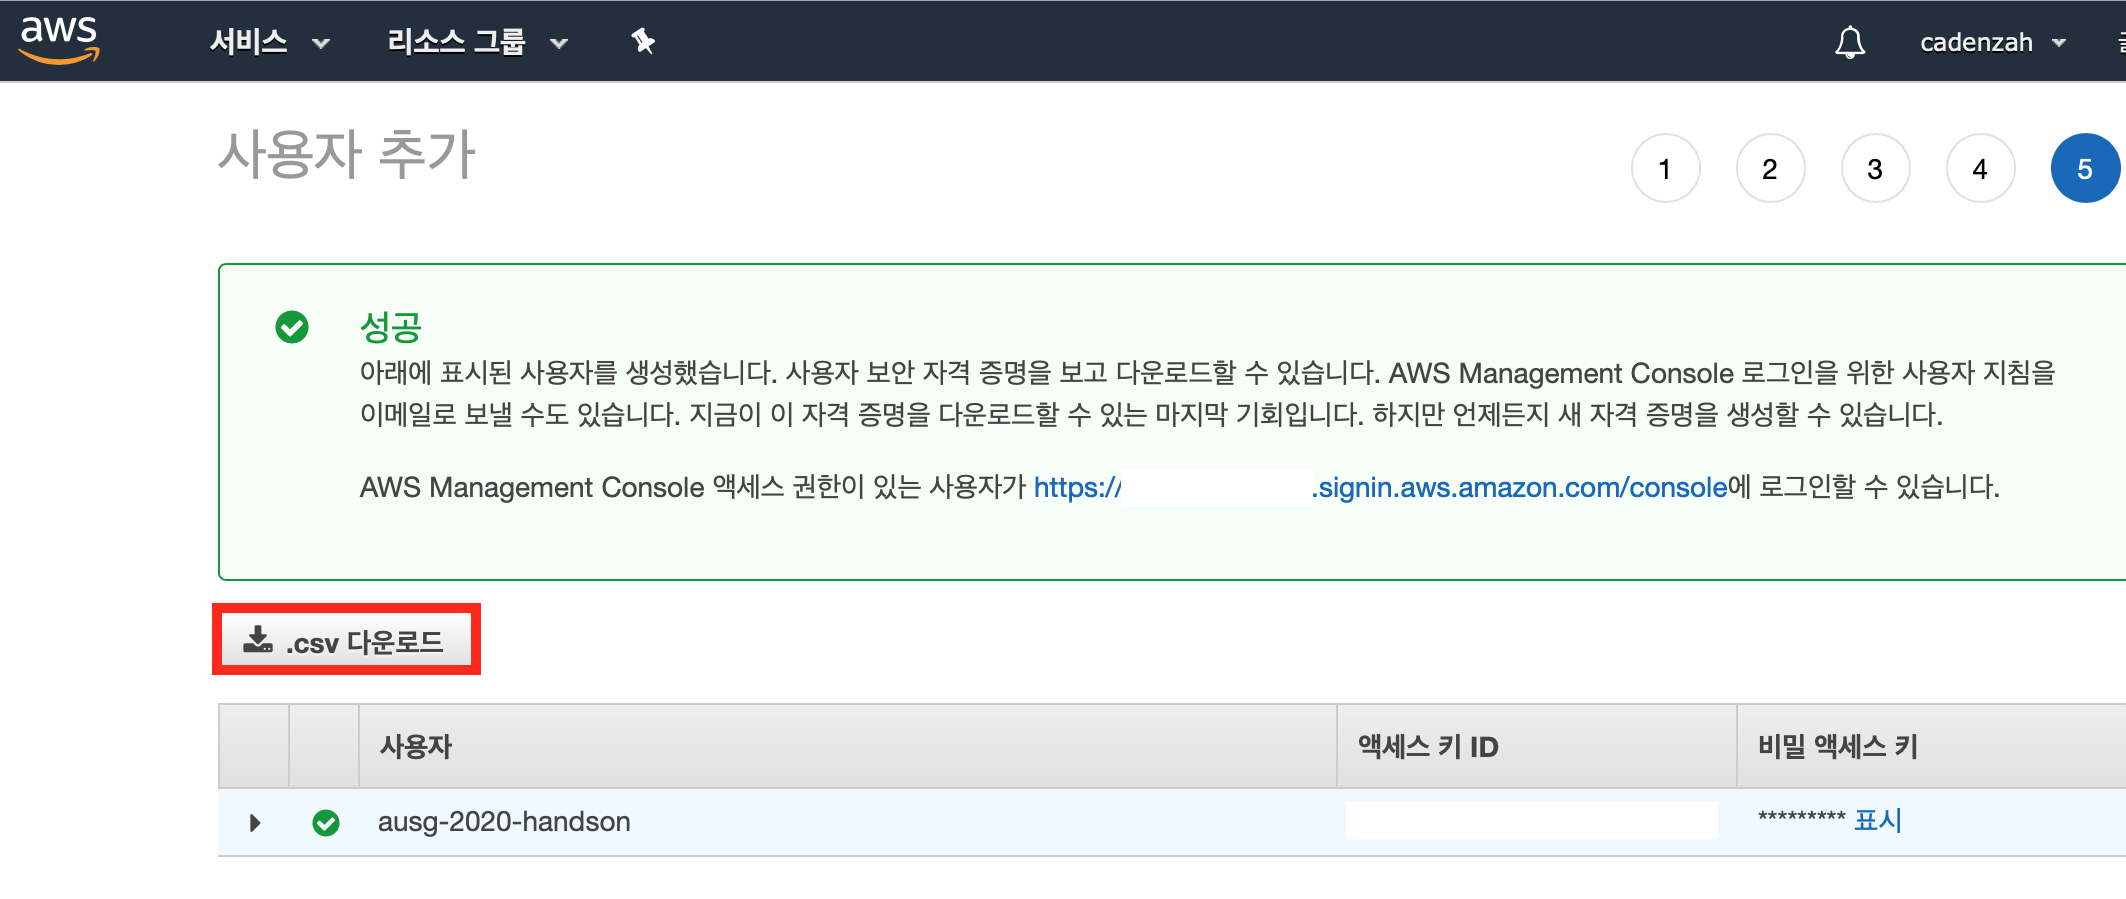
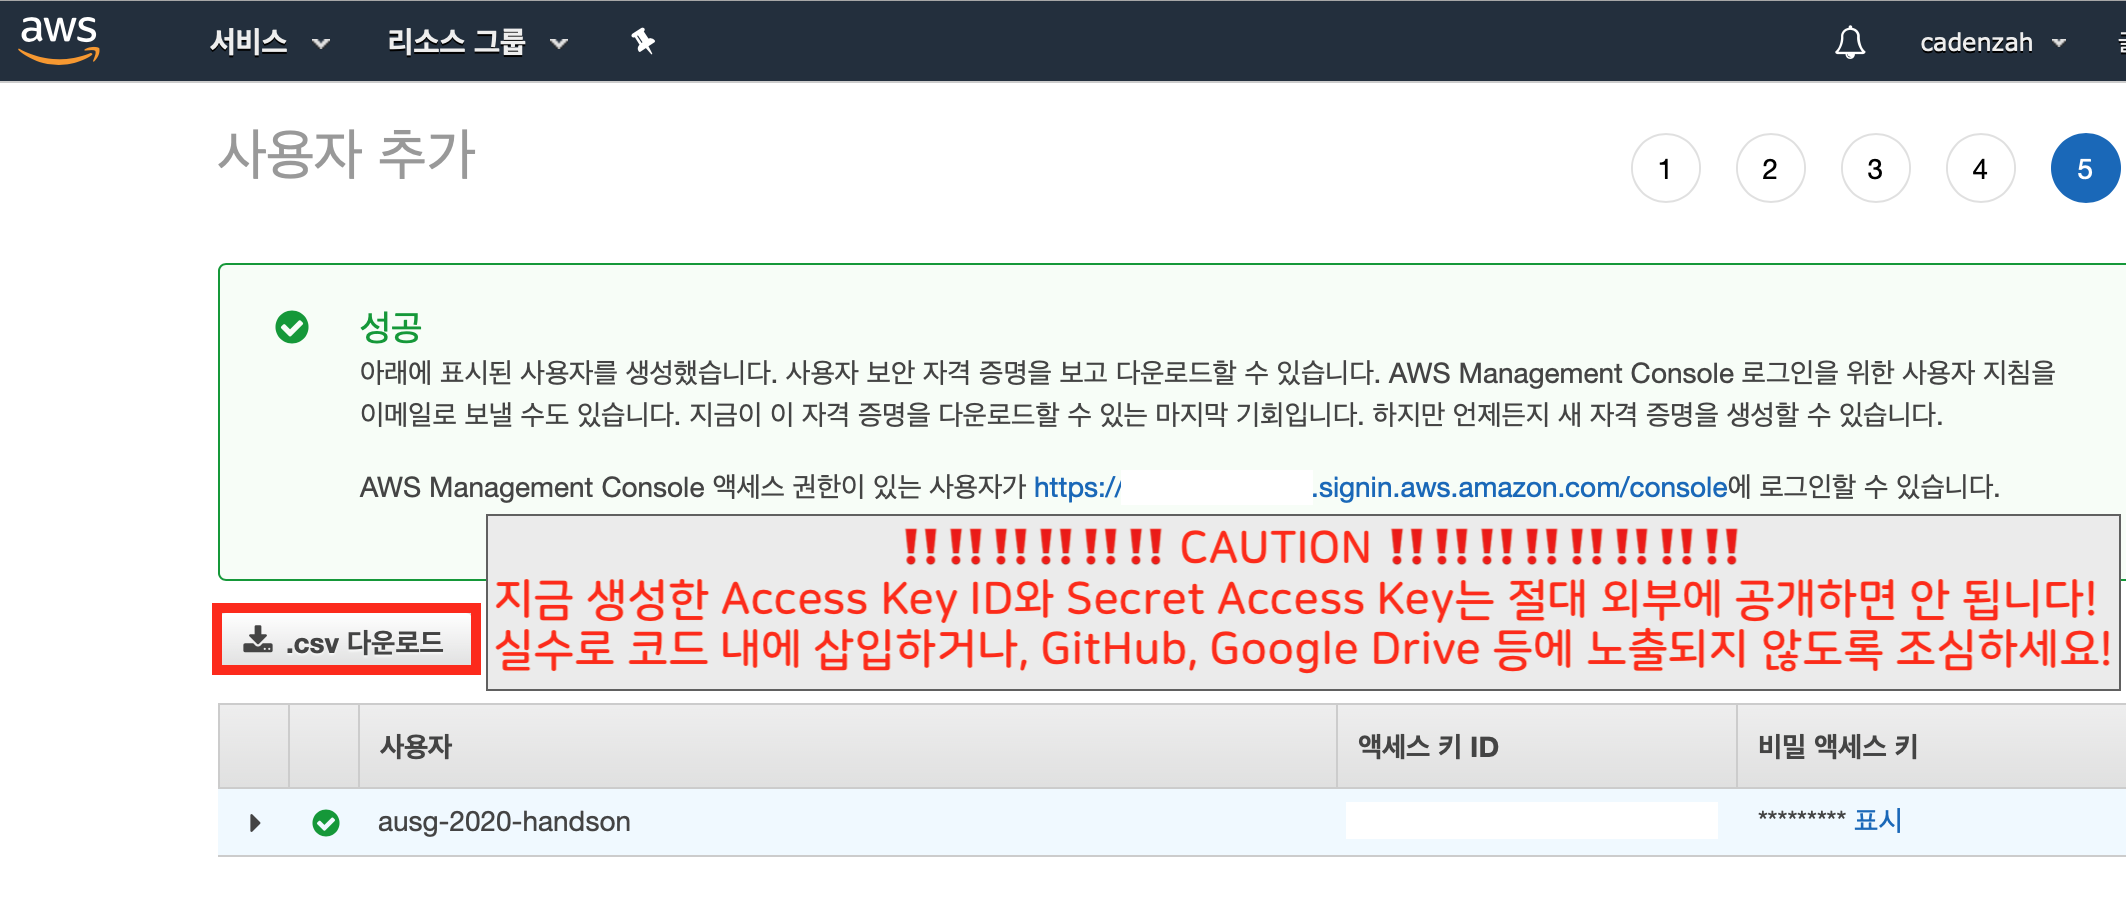
- IAM 키 노출에 대한 주의문구 추가 - IAM 키 노출에 대한 주의문구 사진 내에 추가 - export alias 제거 -> import one-by-one

Changed region(s): [[0.2173, 0.5606, 1.0, 0.7786]]

diff --git a/handson/04.amplify.md b/handson/04.amplify.md
@@ -14,7 +14,7 @@ import config from './aws-exports'
 Amplify.configure(config)
 ```
 
-### GraphQL Query 추가 - `src/graphql/`
+### GraphQL Query 추가 - `src/queries/`
 다음으로, GraphQL API에 요청할 때에 사용할 쿼리 코드를 작성하겠습니다. 이번 실습에서 다루는 데이터는 *할 일* 단 하나로, 이 데이터에 대하여 총 4가지의 API가 필요합니다.
 
 - Query:
@@ -27,7 +27,7 @@ Amplify.configure(config)
 각각에 대하여 GraphQL 쿼리 코드를 작성하겠습니다. 각 쿼리 코드는 스트링 형태로 작성한 뒤, 이후 실제 API 요청시 Amplify 라이브러리의 함수에 인자로 전달하게 됩니다.
 
 ```js
-// src/graphql/getTodoList.js
+// src/queries/getTodoList.js
 const getTodoList = `query GetTodoList {
   listTodos {
     items {
@@ -43,7 +43,7 @@ export default getTodoList
 ```
 
 ```js
-// src/graphql/createTodo.js
+// src/queries/createTodo.js
 const createTodo = `mutation CreateTodo($input: CreateTodoInput!) {
   createTodo(input: $input) {
     id
@@ -58,7 +58,7 @@ export default createTodo
 ```
 
 ```js
-// src/graphql/updateTodo.js
+// src/queries/updateTodo.js
 const updateTodo = `mutation UpdateTodo($input: UpdateTodoInput!) {
   updateTodo(input: $input) {
     id
@@ -70,7 +70,7 @@ export default updateTodo
 ```
 
 ```js
-// src/graphql/deleteTodo.js
+// src/queries/deleteTodo.js
 const deleteTodo = `mutation DeleteTodo($input: DeleteTodoInput!) {
   deleteTodo(input: $input) {
     id
@@ -78,24 +78,6 @@ const deleteTodo = `mutation DeleteTodo($input: DeleteTodoInput!) {
 }`
 
 export default deleteTodo
-```
-
-이렇게 작성한 쿼리 코드들을 나중에 불러올 때, 객체 형태로 한번에 묶어서 불러올 수 있도록 아래의 `index.js` 파일을 같은 디렉토리 내에 추가합니다.
-
-```js
-// src/graphql/index.js
-import createTodo from './createTodo'
-import updateTodo from './updateTodo'
-import deleteTodo from './deleteTodo'
-import getTodoList from './getTodoList'
-
-
-export {
-  createTodo as mutateCreateTodo,
-  updateTodo as mutateUpdateTodo,
-  deleteTodo as mutateDeleteTodo,
-  getTodoList as queryGetTodoList,
-}
 ```
 
 ### GraphQL API 연동 코드 추가 - `src/utils/lib/api-appsync.js`
@@ -110,17 +92,20 @@ export {
 import { API, graphqlOperation } from 'aws-amplify'
 import uuid from 'uuid/v4'
 
-import {
-  mutateCreateTodo,
-  mutateUpdateTodo,
-  mutateDeleteTodo,
-  queryGetTodoList,
-} from '../../graphql'
+// 위에서 정의한 GraphQL 쿼리 코드들을 불러옵니다
+import mutateCreateTodo from '../../queries/createTodo'
+import mutateUpdateTodo from '../../queries/updateTodo'
+import mutateDeleteTodo from '../../queries/deleteTodo'
+import queryGetTodoList from '../../queries/getTodoList'
 
+// 'aws-amplify' 라이브러리의 API 함수를 사용하여 graphql 요청을 보냅니다
+// 1. 모든 할일 목록을 불러옵니다
 const getTodoList = () => {
   return API.graphql(graphqlOperation(queryGetTodoList))
 }
 
+// 2. 새로운 할일을 생성합니다
+// 이때, 생성될 할일의 정보를 객체 형태로 전달합니다
 const createTodo = (desc) => {
   return API.graphql(graphqlOperation(mutateCreateTodo, {
     input: {
@@ -132,6 +117,9 @@ const createTodo = (desc) => {
   }))
 }
 
+// 3. 기존의 할일을 수정합니다
+// 이때, 수정될 대상 할일에 대한 정보를 `id` 속성으로 전달하고,
+// 수정할 정보를 다른 속성들을 통하여 전달합니다
 const updateTodo = (id, prevStatus) => {
   return API.graphql(graphqlOperation(mutateUpdateTodo, {
     input: {
@@ -142,10 +130,14 @@ const updateTodo = (id, prevStatus) => {
   }))
 }
 
+// 4. 기존의 할일을 제거합니다
+// 제거 대상 할일은 `id` 속성으로 전달합니다
 const deleteTodo = (id) => {
   return API.graphql(graphqlOperation(mutateDeleteTodo, { input: { id } }))
 }
 
+// 객체 형태로 내보냅니다
+// 외부에서 이 파일을 불러오면, 객체를 다루듯이 API 호출 함수에 접근할 수 있게 됩니다
 export default {
   getTodoList,
   createTodo,
